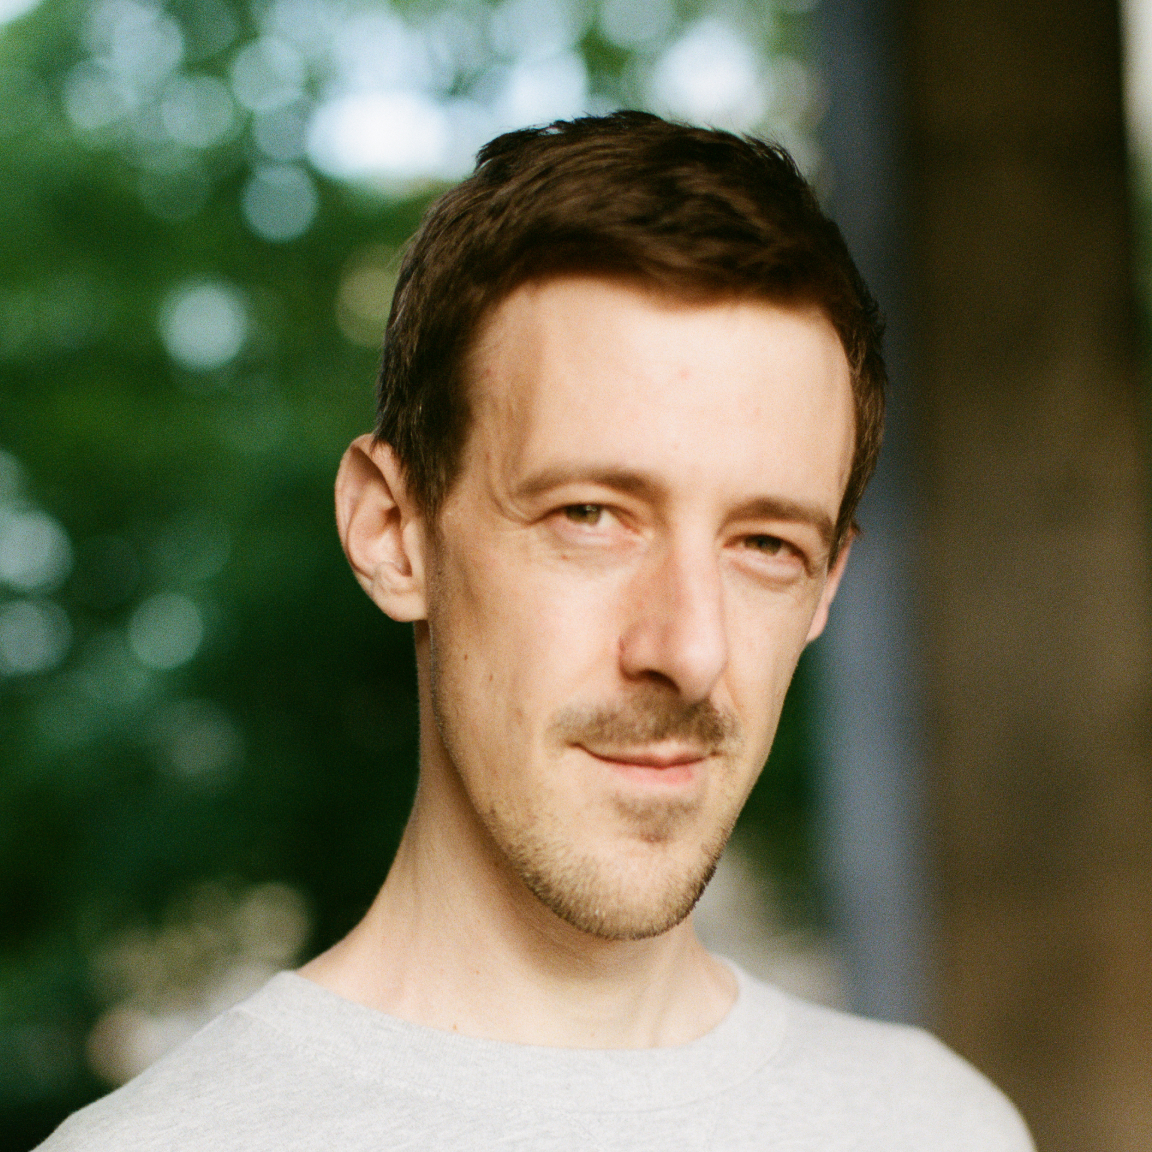
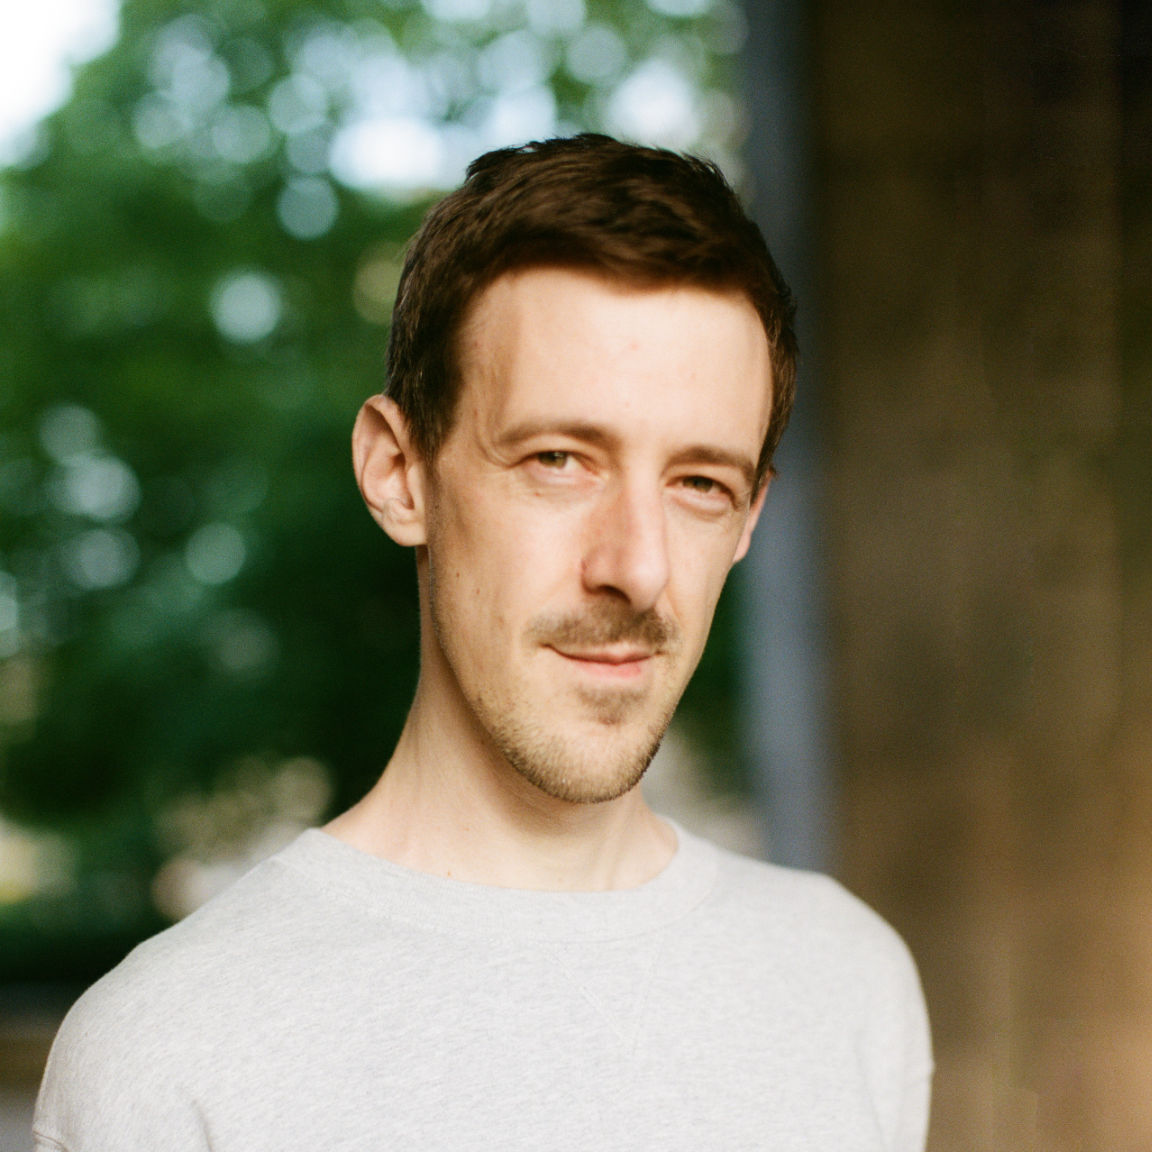
Update text, pic

diff --git a/index.html b/index.html
@@ -19,37 +19,29 @@
     <h1>Counselling<br/>&mdash;<br/><span class="name">Ant Orant</span></h1>
   </div>
   <img src="img/profile4.jpg" class="profile" />
-  <p>I offer psychological support for individuals, in English or <a href="index-de.html">German</a>, as part of my training in counselling.</p>
+  <h3>Counselling</h3>
+  <p>Psychological support for people experiencing stress, anxiety, depression and loss.<p/>
+  <p>Online or in-person in Berlin; <br/>in English or German.</p>
+  <p>I specialise in helping people navigate relationships, work and career difficulties, and life crises and transitions.</p>
+  <p><!--Anxiety, conflict, communication, creativity, death, family, grief, illness, needs/boundaries, loss, relationships, separation, stress, unemployment, work, etc.--></p>
   <!-- <hr> -->
-  <h3>We can talk about:</h3>
-  <p>Anxiety, conflict, communication, creativity, death, family, grief, illness, needs/boundaries, loss, relationships, separation, stress, unemployment, work, etc.</p>
-  <hr>
   <h3>Fees</h3>
-  <p>50€ per session (flexible, just ask).<br/>Our first conversation is free.<br/>
+  <p>0&mdash;50€ per session (income-based).<br/>
+    Free consultation. Write to <a href="mailto:ant@orant.xyz">ant@orant.xyz</a>.<br/>
   While in training I work under supervision.</p>
   <hr>
-  <p class="cta">Write to <a href="mailto:ant@orant.xyz">ant@orant.xyz</a></p>
-  <hr>
-  <h3>How it can help:</h3>
+  <h3>How counselling can help:</h3>
   <ul>
     <li>Work through a long-term problem</li>
     <li>Talk through a recent experience, get a second opinion</li>
     <li>Take pressure off partners, friends or family</li>
     <li>Talk about something you don't have time or space for elsewhere</li>
   </ul>
-  <hr>
-  <p>A confidential 1:1 space for listening, reflection, and perspective; conversations on the phone or online.<p>
   <p>It's <em>not psychotherapy</em>: we don't diagnose or fix.<br/>
     It's <em>not coaching</em>: it's not goal-oriented &mdash; we work with what is.</p>
   <hr>
   <p class="cta">Write to <a href="mailto:ant@orant.xyz">ant@orant.xyz</a></p>
   <hr>
-  <div class="image-frame" style="background-image: url('img/image-54.jpg'); background-position: right;">
-  </div>
-  <h2 id="about">About</h2>
-  <p>I'm a lifelong student of psychology, philosophy and personal development. As life has happened, I've had to translate that intellectual interest into real emotional and psychological work. Through journalling I became interested in my dreams, which led me to the work of C.G. Jung, and in turn to an interest in psychoanalysis, and depth psychology in general.</p>
-  <p>After completing introductory courses in psychoanalysis and analytical psychology, I decided to join the MA Counselling program at ThH Friedensau. I was skeptical about a religious school, but found a practical, systemic-based curriculum, and an open-minded and contemplative environment. My own philosophical attitude is influenced by eastern/ancient thought systems and comparative religion in general.</p>
-  <p>I have a Bachelor's degree in Fine Art, and I've worked in design, technology and music for 17 years, as a team lead, mentor, and teacher. My work involves understanding perspectives, guiding conversations, exploring complex problems and supporting peers. I always found my work with people to be the most rewarding, whether helping clients to identify and reach their goals, or helping colleagues to manage stress, complexity and relationships.</p>
   <div class="image-frame" style="background-image: url('img/image-49.jpg');, background-position: center;"></div>
   <h2 id="approach">Approach</h2>
   <p>My approach is <em>integrative</em> and <em>person-centred</em>.<br/><em>Integrative</em> in that I work with ideas and techniques from different schools of psychology; <em>person-centred</em> means that the process is guided by you, and we work together to find shared language and models that resonate with you.</p>
@@ -61,9 +53,16 @@
   </ul>
 
   <hr>
-  <p  class="cta">Write to <a href="mailto:ant@orant.xyz">ant@orant.xyz</a></p>
+  <p  class="cta">Free consultation: write to <a href="mailto:ant@orant.xyz">ant@orant.xyz</a></p>
   <hr>
-
+  <div class="image-frame" style="background-image: url('img/image-54.jpg'); background-position: right;">
+  </div>
+  <h2 id="about">About</h2>
+  <p>I'm a lifelong student of psychology, philosophy and personal development. As life has happened, I've had to translate that intellectual interest into real emotional and psychological work. Through journalling I became interested in my dreams, which led me to the work of C.G. Jung, and in turn to an interest in psychoanalysis, and depth psychology in general.</p>
+  <p>
+    After completing introductory courses in psychoanalysis and analytical psychology, I decided to join the MA Counselling program at ThH Friedensau. The course integrates systemic, psychodynamic and cognitive-behavioural theories and covers individual, couple, and group counselling.
+  </p>
+  <p>I have a Bachelor's degree in Fine Art, and I've worked in design, technology and music for 17 years, as a team lead, mentor, and teacher. My work involves understanding perspectives, guiding conversations, exploring complex problems and supporting peers. I always found my work with people to be the most rewarding, whether helping clients to identify and reach their goals, or helping colleagues to manage stress, complexity and relationships.</p>
   <div class="image-frame" style="background-image: url('img/image-61.jpg');  background-position: center;"></div>
   <h3>Safety</h3>
   <p>I am not yet an accredited counsellor. While in training I work under supervision. It’s intended as a complement to professional psychotherapy, a more accessible alternative, or a step towards the right help.</p>

diff --git a/css/style.css b/css/style.css
@@ -160,6 +160,7 @@ img.profile {
   img.profile {
     float:right;
     margin: 0 auto;
+    margin-bottom: 2rem;
     margin-left: 2rem;
     width: 320px;
     width: 12rem;
@@ -177,7 +178,8 @@ img.profile {
 .cover {
   align-items: center;
   display: flex;
-  min-height: 16rem;
+/*  min-height: 16rem;*/
+  min-height: 66vh;
   justify-content: center;
   margin-bottom: 4rem;
 }
@@ -245,7 +247,8 @@ hr {
   background-color: var(--c-text);
   border: 0 none;
   height: 1px;
-  margin: 2rem 8rem;
+/*  margin: 2rem 8rem;*/
+  margin: 2rem 0;
 }
 
 @media only screen and (min-width : 767px) {
